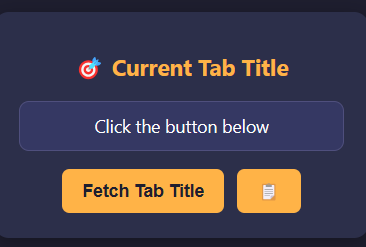
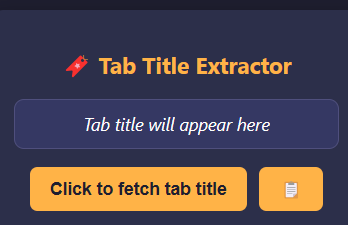
updated ui/ux

diff --git a/popup.html b/popup.html
@@ -8,10 +8,12 @@
   </head>
   <body>
     <div class="container">
-      <h1>🎯 Current Tab Title</h1>
-      <div id="title" class="title-box">Click the button below</div>
+      <h1>🔖 Tab Title Extractor</h1>
+      <div id="title" class="title-box">
+        <i>Tab title will appear here</i>
+      </div>
       <div class="button-container">
-        <button id="fetchBtn">Fetch Tab Title</button>
+        <button id="fetchBtn">Click to fetch tab title</button>
         <button id="copyBtn">📋</button>
       </div>
     </div>
